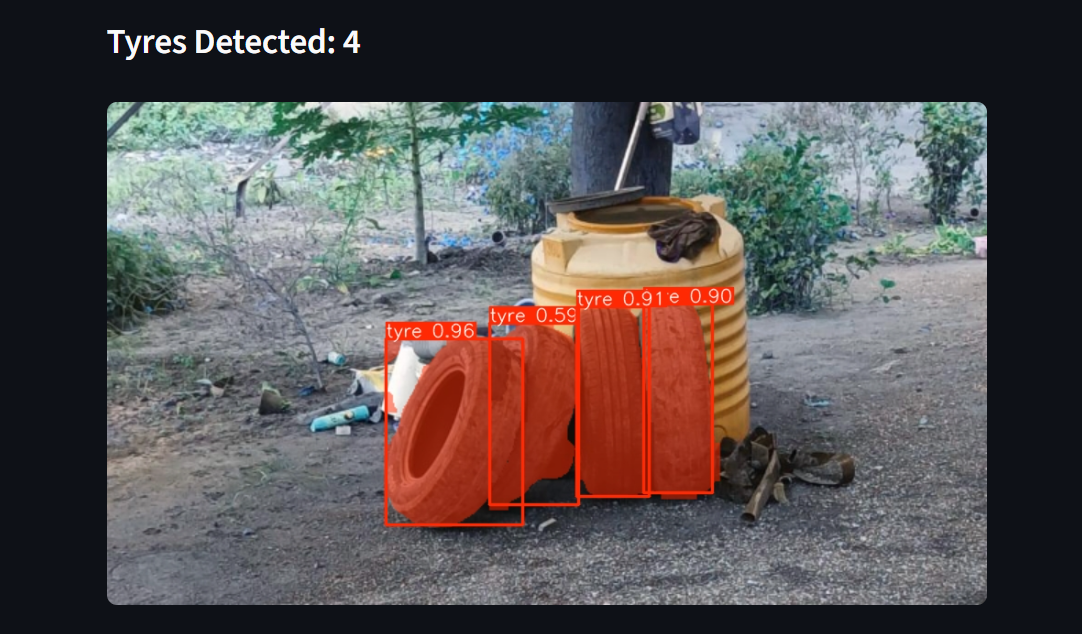
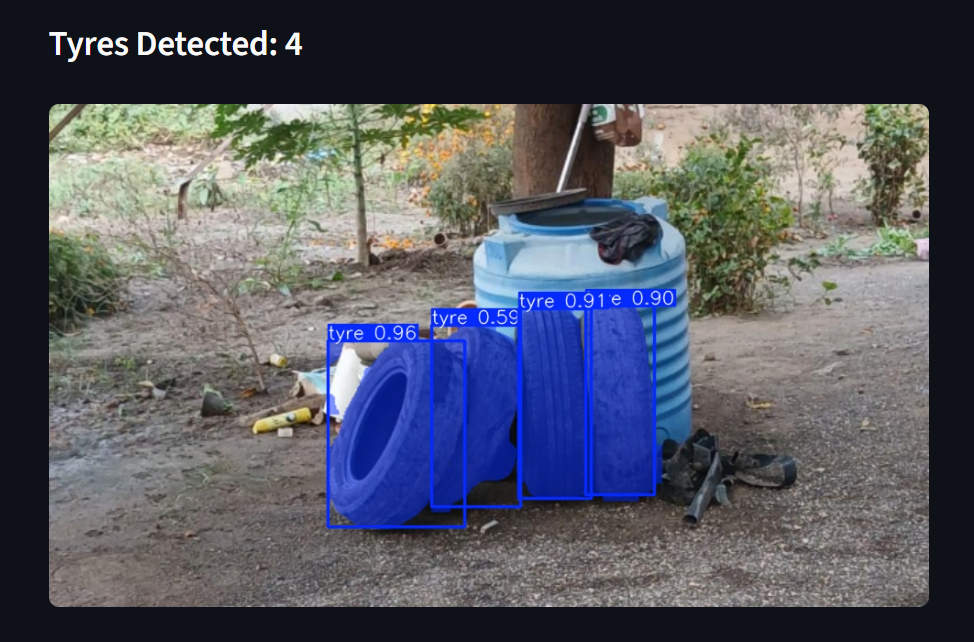
fixed output colour mask issue

diff --git a/app.py b/app.py
@@ -46,7 +46,7 @@ if uploaded_file:
     )[0]
 
     tyre_count = count_tyres(results)
-    output_img = results.plot()
+    output_img = results.plot()[..., ::-1]
 
     #display results
     st.subheader(f"Tyres Detected: {tyre_count}")
